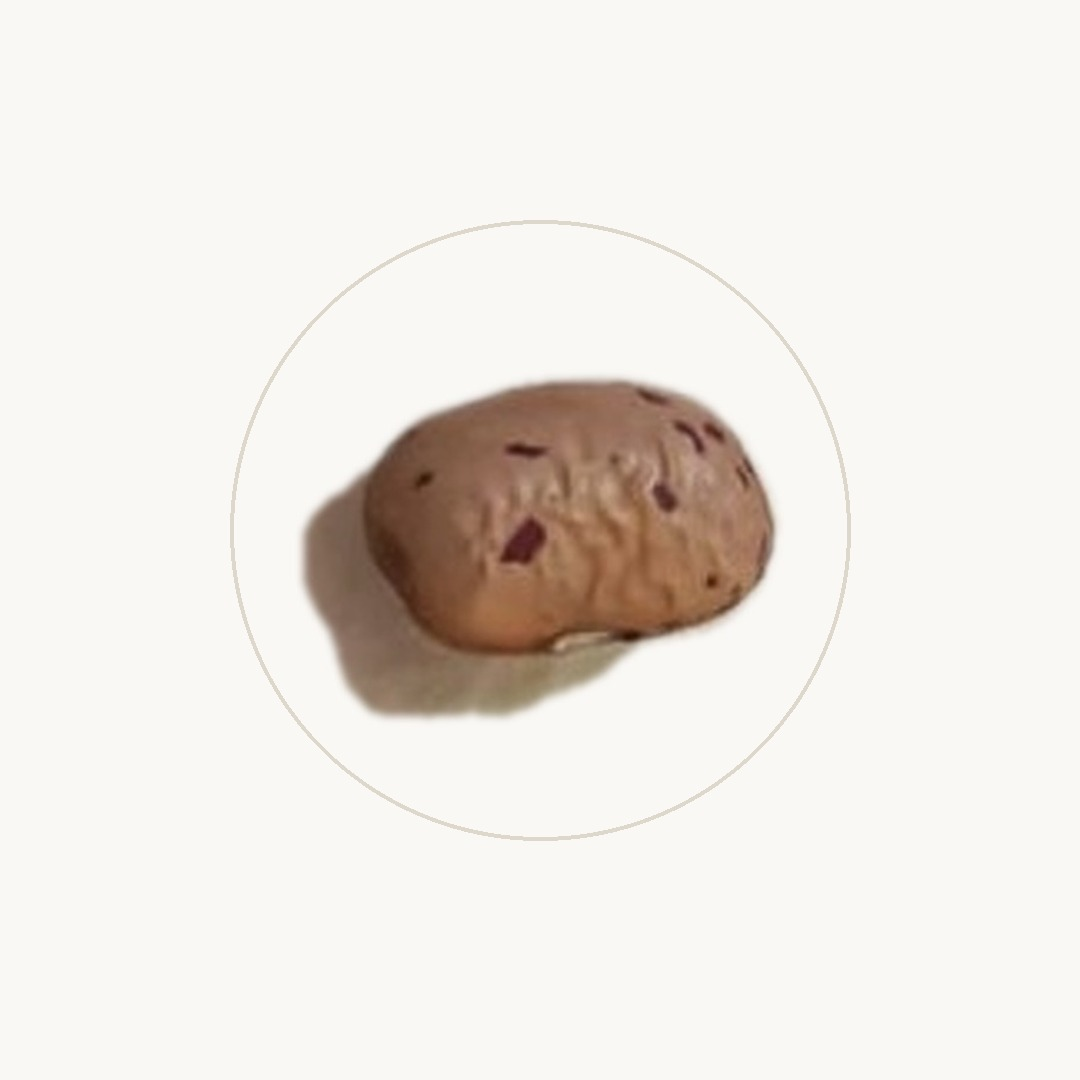
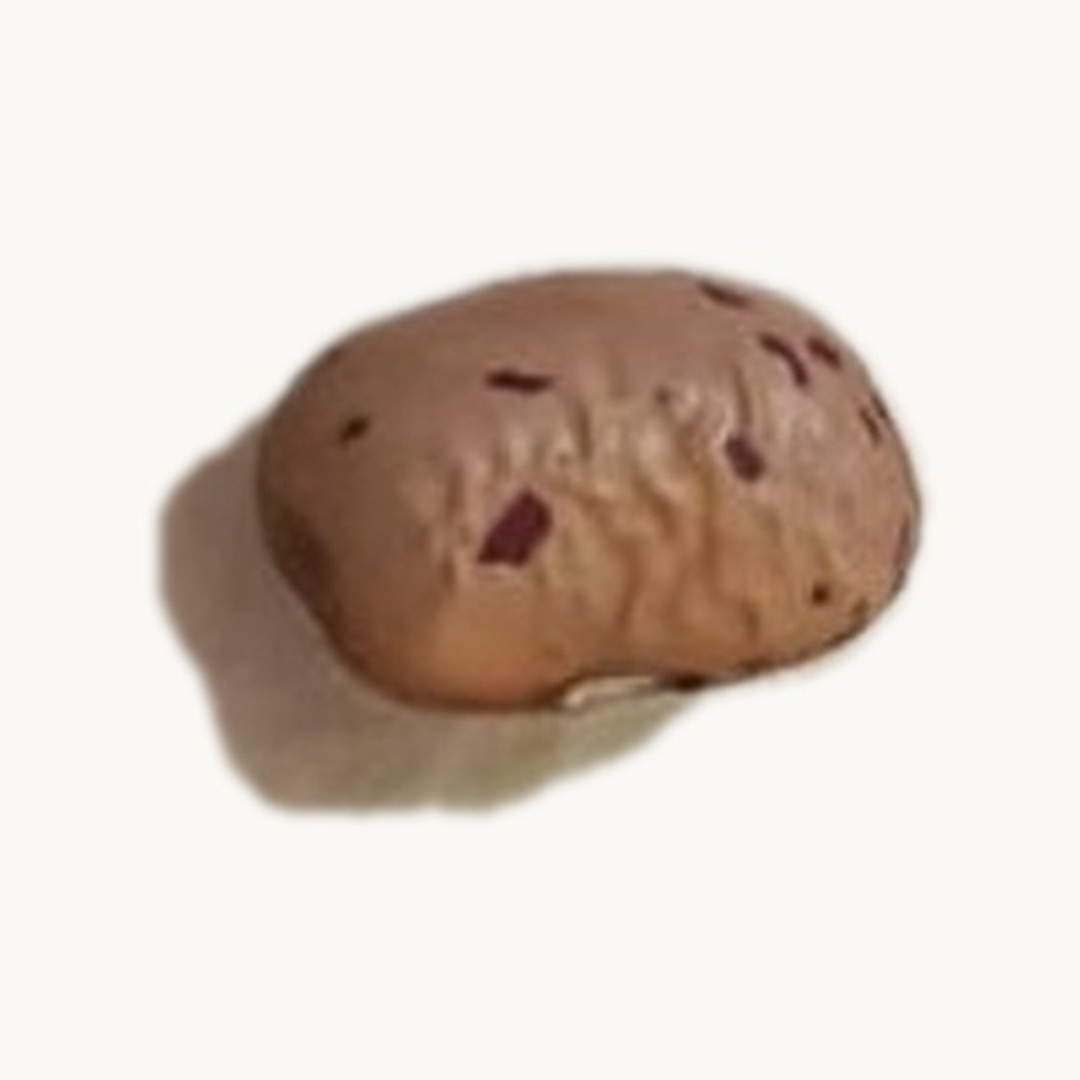
Immagine del profilo ritagliata stretta: deve leggersi a 40 pixel

diff --git a/strumenti/instagram.py b/strumenti/instagram.py
@@ -83,18 +83,23 @@ def piede(d, x, larg, y):
 
 # ----------------------------------------------------------- immagine profilo
 def tondo():
+    """Instagram ritaglia un cerchio dal centro e lo mostra a 40 pixel: il
+    fagiolo deve riempire il quadro, non posarci dentro."""
     lato = 1080
+    f = Image.open("assets/img/ritratti/bud.jpg").convert("RGB")
+    # riquadro effettivo del fagiolo: tutto cio' che non e' fondo chiaro
+    g = f.convert("L"); w, h = g.size; px = g.load()
+    xs = [x for x in range(w) for y in range(0, h, 3) if px[x, y] < 215]
+    ys = [y for y in range(h) for x in range(0, w, 3) if px[x, y] < 215]
+    x0, x1, y0, y1 = min(xs), max(xs), min(ys), max(ys)
+    m = int(max(x1 - x0, y1 - y0) * 0.06)
+    f = f.crop((max(0, x0 - m), max(0, y0 - m), min(w, x1 + m), min(h, y1 + m)))
+
+    # largo 860: resta dentro il cerchio perche' il fagiolo e' piu' basso che largo
+    largo = 860
+    f = f.resize((largo, max(1, round(f.height * largo / f.width))), Image.LANCZOS)
     tela = Image.new("RGB", (lato, lato), CARTA)
-    d = ImageDraw.Draw(tela)
-    fagiolo = Image.open("assets/img/ritratti/bud.jpg").convert("RGB")
-    dim = 620
-    fagiolo = riempi(fagiolo, dim, dim)
-    # maschera tonda, cosi' il fagiolo non ha spigoli dentro il cerchio di IG
-    m = Image.new("L", (dim, dim), 0)
-    ImageDraw.Draw(m).ellipse([0, 0, dim, dim], fill=255)
-    tela.paste(fagiolo, ((lato - dim) // 2, (lato - dim) // 2 - 10), m)
-    d.ellipse([(lato - dim) // 2, (lato - dim) // 2 - 10,
-               (lato + dim) // 2, (lato + dim) // 2 - 10], outline=BORDO, width=4)
+    tela.paste(f, ((lato - f.width) // 2, (lato - f.height) // 2))
     os.makedirs(FUORI, exist_ok=True)
     tela.save(FUORI + "/profilo-tondo.jpg", quality=92)
     return FUORI + "/profilo-tondo.jpg"
